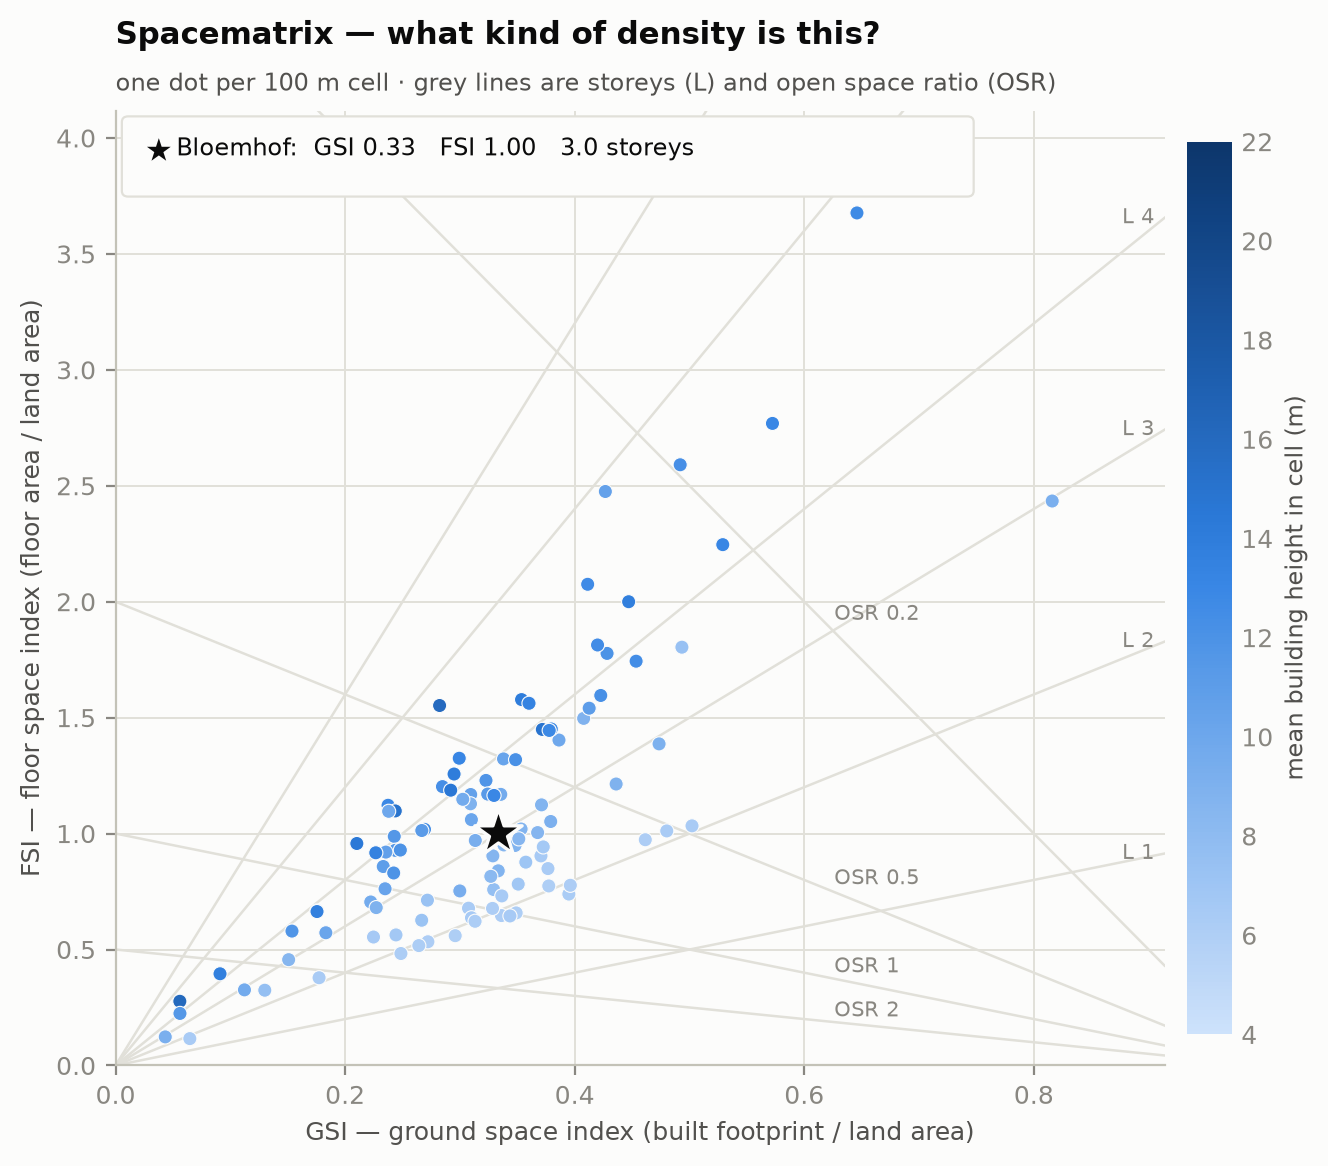
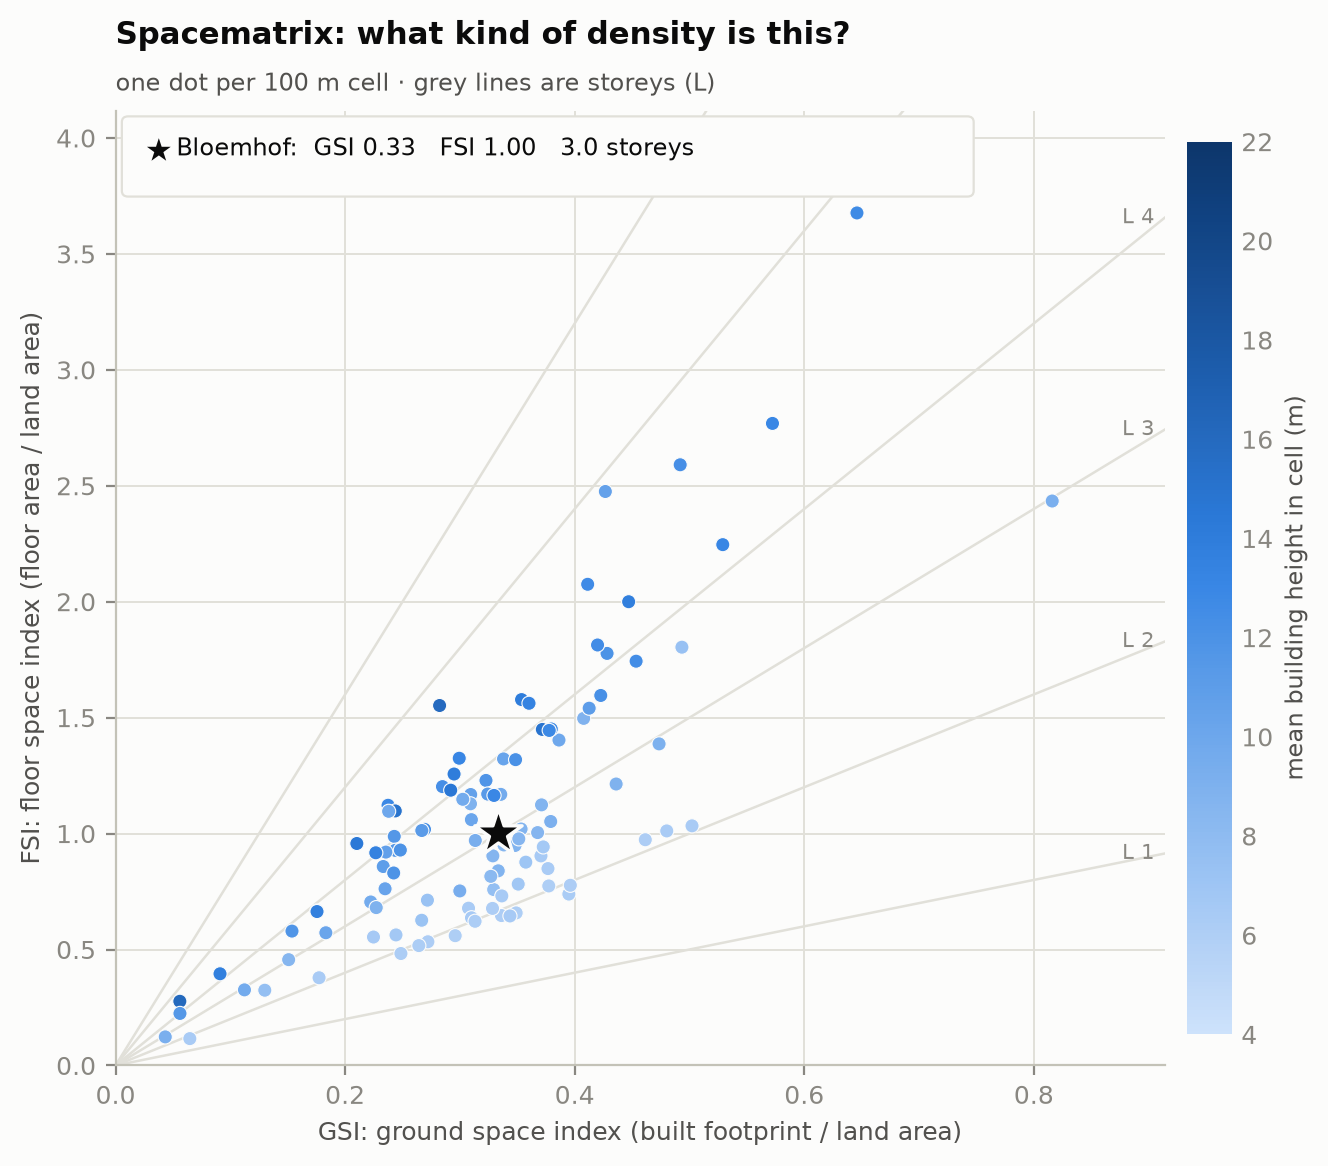
Density: OSR dropped; Spacematrix keeps GSI, FSI and storeys
Removed from density_height.py, its outputs, the Spacematrix figure, the app's
map layer, popups and diagram, and the morphology README. density_height.py
was re-run: its outputs are identical apart from the OSR fields.

diff --git a/app/modules/indicators.js b/app/modules/indicators.js
@@ -42,12 +42,6 @@ const INDICATORS = [
     hint: "mean number of floors",
   },
   {
-    key: "osr",
-    label: "OSR (open space ratio)",
-    unit: "",
-    hint: "open space per m² of floor space",
-  },
-  {
     key: "height_mean_m",
     label: "Mean building height",
     unit: " m",
@@ -177,7 +171,6 @@ async function addDensityGrid(ctx) {
       `<tr><td>FSI</td><td>${fsi.toFixed(2)}</td></tr>` +
       `<tr><td>GSI</td><td>${(p?.gsi?.getValue?.() ?? 0).toFixed(2)}</td></tr>` +
       `<tr><td>storeys</td><td>${p?.layers?.getValue?.() ?? "-"}</td></tr>` +
-      `<tr><td>OSR</td><td>${p?.osr?.getValue?.() ?? "-"}</td></tr>` +
       `<tr><td>mean height</td><td>${p?.height_mean_m?.getValue?.() ?? "-"} m</td></tr>` +
       `<tr><td>height σ</td><td>${p?.height_std_m?.getValue?.() ?? "-"} m</td></tr>` +
       `<tr><td>buildings</td><td>${p?.n_buildings?.getValue?.() ?? "-"}</td></tr>` +
@@ -414,9 +407,9 @@ function histogramSvg(hist, mean) {
  * The Spacematrix diagram (Berghauser Pont & Haupt 2010), drawn from the
  * per-cell points in density_summary.json.
  *
- * GSI on x, FSI on y. Those two fix the other two indicators, so the diagram
- * carries all four: L = FSI/GSI is a straight line through the origin, and
- * OSR = (1-GSI)/FSI is a curve. Plotting it is the whole point of computing
+ * GSI on x, FSI on y. Those two fix L = FSI/GSI, so the diagram carries all
+ * three: L is a straight line through the origin. (OSR was dropped on
+ * 2026-11-01.) Plotting it is the whole point of computing
  * Spacematrix rather than a bare density figure: fabric types separate by
  * WHERE they sit, not by any single number, and two cells with the same FSI
  * can be a low sprawl or a tall point block depending on GSI.
@@ -448,27 +441,6 @@ function spacematrixSvg(points, perBuurt) {
   const py = (f) => PT + ih - Math.min(f / FMAX, 1) * ih;
 
   const parts = [];
-
-  // --- OSR isolines (curves): FSI = (1 - GSI) / OSR ------------------------
-  for (const osr of [0.2, 0.5, 1.0, 2.0]) {
-    const pts = [];
-    for (let i = 0; i <= 40; i++) {
-      const g = (i / 40) * GMAX;
-      const f = (1 - g) / osr;
-      if (f > FMAX || f < 0) continue;
-      pts.push(`${px(g).toFixed(1)},${py(f).toFixed(1)}`);
-    }
-    if (pts.length < 2) continue;
-    parts.push(
-      `<polyline points="${pts.join(" ")}" fill="none" stroke="#3a4655" ` +
-        `stroke-width="0.7" stroke-dasharray="1 2"/>`,
-    );
-    const [lx, ly] = pts[0].split(",");
-    parts.push(
-      `<text x="${(+lx + 2).toFixed(1)}" y="${(+ly - 2).toFixed(1)}" ` +
-        `fill="#5d6b7d" font-size="7">OSR ${osr}</text>`,
-    );
-  }
 
   // --- L isolines (straight): FSI = L * GSI --------------------------------
   for (const L of [1, 2, 3, 4, 6]) {
@@ -550,7 +522,7 @@ function spacematrixSvg(points, perBuurt) {
     Object.keys(perBuurt || {})  //one swatch per study-area buurt present in the data
       .map((n) => `<span style="color:${COL[n] || "#e7ecf2"}">●</span> ${n} `).join("") +
     `<span style="color:#5b6675">●</span> outside the study area · crosses are the buurt ` +
-    `aggregates. Thin lines are storeys (L), dashed are open space ratio (OSR).</p>`
+    `aggregates. Thin lines are storeys (L).</p>`
   );
 }
 
@@ -957,7 +929,6 @@ export async function setup(ctx) {
       `<tr><td>GSI</td><td>${b.gsi.toFixed(3)}</td></tr>` +
       `<tr><td>FSI</td><td>${b.fsi.toFixed(3)}</td></tr>` +
       `<tr><td>storeys (L)</td><td>${b.layers.toFixed(2)}</td></tr>` +
-      `<tr><td>OSR</td><td>${b.osr.toFixed(2)}</td></tr>` +
       `<tr><td>height</td><td>${b.height_m.mean.toFixed(1)} m ± ${b.height_m.std.toFixed(1)}</td></tr>` +
       `<tr><td>tallest</td><td>${b.height_m.max.toFixed(1)} m</td></tr>` +
       `</tbody></table>` +

diff --git a/analysis/morphology/density_height.py b/analysis/morphology/density_height.py
@@ -8,16 +8,15 @@ METHOD: SPACEMATRIX
 -------------------
 Density is not one number. A dense low-rise terrace and a tower in a park can
 share a floor-space index and be nothing alike. Spacematrix (Berghauser Pont &
-Haupt, TU Delft, 2010) separates them with four quantities computed over a
+Haupt, TU Delft, 2010) separates them with quantities computed over a
 defined aggregation unit:
 
     GSI = built footprint / land area          coverage      0-1
     FSI = gross floor area / land area         intensity
     L   = FSI / GSI                            mean storeys
-    OSR = (1 - GSI) / FSI                      open space per m2 of floor space
 
-GSI and FSI together fix the other two, so a GSI-FSI scatter with L and OSR
-isolines characterises the urban fabric. That plot is produced by
+GSI and FSI together fix L, so a GSI-FSI scatter with L isolines
+characterises the urban fabric. That plot is produced by
 make_figures.py as fig_spacematrix.png.
 
 AGGREGATION UNIT
@@ -177,7 +176,6 @@ def main() -> int:
         gsi = sum_area / cell_area
         fsi = sum_gfa / cell_area
         L = np.where(gsi > 0, fsi / np.maximum(gsi, 1e-9), np.nan)
-        osr = np.where(fsi > 0, (1 - gsi) / np.maximum(fsi, 1e-9), np.nan)
 
     print(f"  grid {nx} x {ny} cells of {c:.0f} m; "
           f"{int((count > 0).sum())} contain buildings")
@@ -204,7 +202,6 @@ def main() -> int:
                 "gsi": round(float(gsi[i]), 4),
                 "fsi": round(float(fsi[i]), 4),
                 "layers": None if not np.isfinite(L[i]) else round(float(L[i]), 2),
-                "osr": None if not np.isfinite(osr[i]) else round(float(osr[i]), 3),
                 "height_mean_m": None if not np.isfinite(h_mean[i]) else round(float(h_mean[i]), 2),
                 "height_std_m": None if not np.isfinite(h_std[i]) else round(float(h_std[i]), 2),
                 "n_buildings": int(count[i]),
@@ -252,7 +249,6 @@ def main() -> int:
                 "gsi": round(g_, 4),
                 "fsi": round(f_, 4),
                 "layers": round(f_ / g_, 2) if g_ else None,
-                "osr": round((1 - g_) / f_, 3) if f_ else None,
                 "height_m": describe(height[bp]),
             }
             return out
@@ -298,7 +294,7 @@ def main() -> int:
     valid = count >= args.min_buildings
     summary = {
         "study_area": STUDY_AREA.name,
-        "method": "Spacematrix (Berghauser Pont & Haupt 2010): GSI, FSI, L, OSR",
+        "method": "Spacematrix (Berghauser Pont & Haupt 2010): GSI, FSI, L",
         "source": "3DBAG v20250903 (TU Delft), attributes b3_opp_grond / "
                   "b3_bouwlagen / b3_h_dak_50p / b3_h_maaiveld",
         "parameters": {
@@ -325,7 +321,6 @@ def main() -> int:
             "gsi": describe(gsi[valid]),
             "fsi": describe(fsi[valid]),
             "layers": describe(L[valid]),
-            "osr": describe(osr[valid]),
             "height_mean_m": describe(h_mean[valid]),
             "height_std_m": describe(h_std[valid]),
         },
@@ -339,7 +334,6 @@ def main() -> int:
         "spacematrix": [
             {"gsi": round(float(gsi[i]), 4), "fsi": round(float(fsi[i]), 4),
              "layers": None if not np.isfinite(L[i]) else round(float(L[i]), 2),
-             "osr": None if not np.isfinite(osr[i]) else round(float(osr[i]), 3),
              "height_mean_m": None if not np.isfinite(h_mean[i]) else round(float(h_mean[i]), 2),
              "height_std_m": None if not np.isfinite(h_std[i]) else round(float(h_std[i]), 2),
              "buurt": cell_buurt.get(i)}
@@ -361,7 +355,7 @@ def main() -> int:
     mi["baseline"]["fsi"] = head.get("fsi", summary["grid"]["fsi"].get("mean"))
     mi["baseline"]["gsi"] = head.get("gsi", summary["grid"]["gsi"].get("mean"))
     mi["baseline"]["layers"] = head.get("layers")
-    mi["baseline"]["osr"] = head.get("osr")
+    mi["baseline"].pop("osr", None)  #OSR was dropped on 2026-11-01; clear it from older files
     hstat = head.get("height_m") or summary["grid"]["height_mean_m"]
     mi["baseline"]["height_mean_m"] = hstat.get("mean")
     mi["baseline"]["height_std_m"] = hstat.get("std")
@@ -374,7 +368,7 @@ def main() -> int:
         b = combined
         print(f"  {b['name']} over {b['land_area_ha']} ha:")
         print(f"     GSI {b['gsi']:.3f}   FSI {b['fsi']:.3f}   "
-              f"L {b['layers']:.2f} storeys   OSR {b['osr']:.2f}")
+              f"L {b['layers']:.2f} storeys")
         h = b["height_m"]
         print(f"     building height {h['mean']:.1f} m mean, "
               f"sigma {h['std']:.1f} m, max {h['max']:.1f} m "

diff --git a/analysis/morphology/make_figures.py b/analysis/morphology/make_figures.py
@@ -346,13 +346,14 @@ def fig_canopy_effect(svf, open_ground, transform, trees_rd):
 # ========================================================== 7. Spacematrix
 def fig_spacematrix(dens):
     """
-    The Spacematrix diagram: GSI against FSI, with L and OSR isolines.
+    The Spacematrix diagram: GSI against FSI, with L (storeys) isolines.
 
     Berghauser Pont & Haupt (2010). The point of the plot is that FSI alone
     does not describe a fabric -- where a cell sits in this space tells you
     whether it is low-rise and packed, mid-rise with courtyards, or towers in
-    open ground. L and OSR are not extra data, they are contours of the same
-    two axes, which is why they are drawn rather than plotted.
+    open ground. L is not extra data, it is a contour of the same two axes,
+    which is why it is drawn rather than plotted. (OSR, the open space ratio,
+    was dropped on 2026-11-01.)
     """
     pts = dens["spacematrix"]
     g = np.array([p["gsi"] for p in pts])
@@ -369,22 +370,13 @@ def fig_spacematrix(dens):
     for L in (1, 2, 3, 4, 6, 8):
         ax.plot([0, xmax], [0, L * xmax], color=GRID, lw=0.9, zorder=1)
         yx = L * xmax
-        tag = f"L {L}"          # "L 4" not a bare "4", so it cannot be read as OSR
+        tag = f"L {L}"          # "L 4" not a bare "4"
         if yx <= ymax:
             ax.text(xmax * 0.99, yx, tag, color=MUTED, fontsize=7.5,
                     va="center", ha="right", zorder=1)
         else:
             ax.text(ymax / L, ymax * 0.99, tag, color=MUTED, fontsize=7.5,
                     va="top", ha="center", zorder=1)
-
-    # OSR isolines: FSI = (1 - GSI) / OSR
-    gg = np.linspace(0.001, min(0.99, xmax), 200)
-    for osr in (0.2, 0.5, 1.0, 2.0):
-        ax.plot(gg, (1 - gg) / osr, color=GRID, lw=0.9, ls="-", zorder=1)
-        yi = (1 - 0.62) / osr
-        if 0.05 < yi < ymax * 0.96:
-            ax.text(0.62, yi, f" OSR {osr:g}", color=MUTED, fontsize=7.5,
-                    va="bottom", ha="left", zorder=1)
 
     sc = ax.scatter(g, f, c=h, cmap=SEQ, vmin=4, vmax=22, s=26,
                     linewidths=0.4, edgecolors=SURFACE, zorder=3)
@@ -433,7 +425,7 @@ def fig_spacematrix(dens):
     ax.set_ylabel("FSI: floor space index (floor area / land area)")
     titled(ax, "Spacematrix: what kind of density is this?",
            f"one dot per {dens['parameters']['cell_size_m']:.0f} m cell · "
-           f"grey lines are storeys (L) and open space ratio (OSR)")
+           f"grey lines are storeys (L)")
     cb = fig.colorbar(sc, ax=ax, fraction=0.04, pad=0.02)
     cb.set_label("mean building height in cell (m)", color=INK_2, fontsize=8.5)
     cb.outline.set_visible(False)

diff --git a/analysis/morphology/README.md b/analysis/morphology/README.md
@@ -20,7 +20,7 @@ numerator and denominator always share one boundary.
 | `fetch_buildings.py` | 3DBAG footprint areas, storeys and heights via the OGC API | `data/raw/buildings_3dbag.geojson` |
 | `fetch_landuse.py` | BAG addressable units: function and floor area per unit | `data/raw/bag_verblijfsobjecten.geojson` |
 | `sky_view_factor.py` | SVF by the multi-directional horizon-angle method | `data/processed/svf*.tif`, `svf_overlay.png`, `svf_summary.json` |
-| `density_height.py` | Spacematrix density (GSI, FSI, L, OSR) and height variation | `data/processed/density_grid.geojson`, `density_summary.json` |
+| `density_height.py` | Spacematrix density (GSI, FSI, L) and height variation | `data/processed/density_grid.geojson`, `density_summary.json` |
 | `landuse_mix.py` | Shannon and Simpson land-use mix indices | `data/processed/landuse_grid.geojson`, `landuse_summary.json` |
 | `shadows.py` | direct-sun hours over one clear day, ray-cast from the AHN DSM | `data/processed/shadow_hours.tif` (gitignored), `shadow_overlay.png`, `shadow_summary.json` |
 | `height_width.py` | street-canyon height-to-width ratio from OSM centrelines and 3DBAG footprints | `data/processed/canyon_hw_baseline.json`, `canyon_hw_baseline.geojson`, `docs/fig_canyon_hw_baseline.png` |
@@ -62,7 +62,6 @@ python analysis/morphology/height_width.py --scenario scenario_a      # ~15 s
 | **GSI** ground space index | **0.333** |
 | **FSI** floor space index | **1.003** |
 | **L** storeys | **3.01** |
-| **OSR** | **0.67** |
 | **mean building height** | **8.5 m** |
 | **height variation σ** | **2.9 m** |
 | **land-use mix** Shannon | **0.267** |
@@ -128,7 +127,6 @@ terrace and a tower in a park can share an FSI and be nothing alike.
 GSI = built footprint / land area     coverage
 FSI = gross floor area / land area    intensity
 L   = FSI / GSI                       mean storeys
-OSR = (1 - GSI) / FSI                 open space per m² of floor space
 ```
 
 - **Storey height is measured, not assumed**: 3.06 m, the median over
@@ -148,8 +146,8 @@ OSR = (1 - GSI) / FSI                 open space per m² of floor space
 
 ### The diagram, and why it is worth plotting
 
-GSI and FSI fix the other two indicators, so a GSI–FSI scatter carries all four:
-L is a straight line through the origin, OSR is a curve. Fabric types separate by
+GSI and FSI fix the storeys, so a GSI–FSI scatter carries all three: L is a
+straight line through the origin. Fabric types separate by
 *where* they sit, which no single number shows. `make_figures.py` writes the static
 `docs/fig_spacematrix.png`; `app/modules/indicators.js` draws the same diagram in
 the dashboard from the 107 per-cell points in `density_summary.json`, coloured
